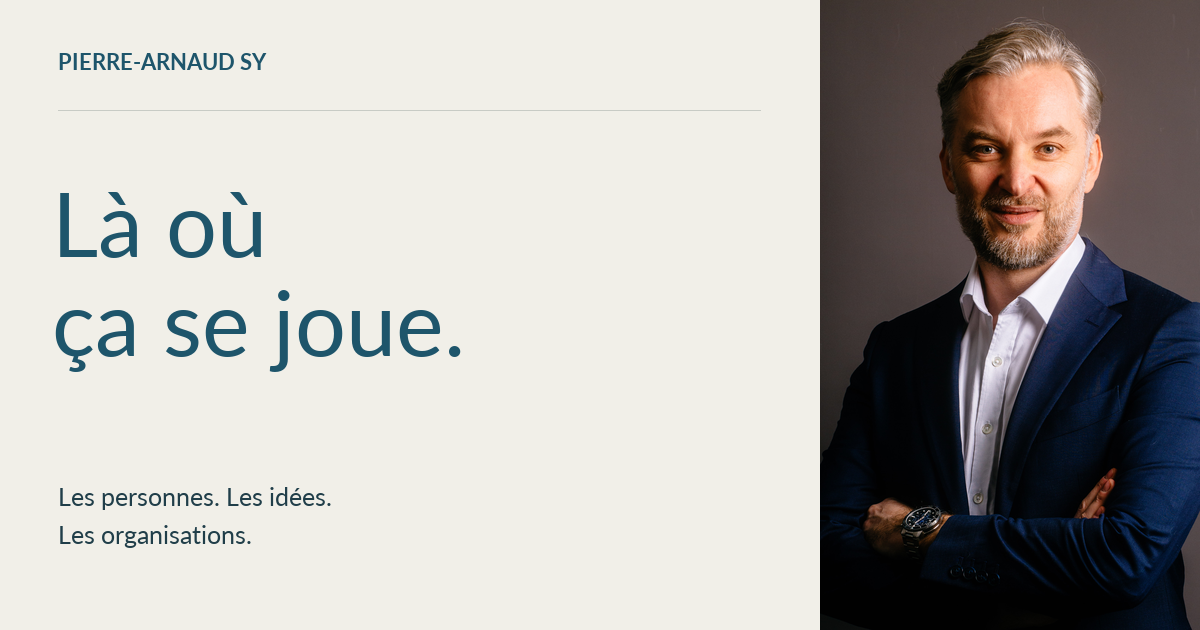
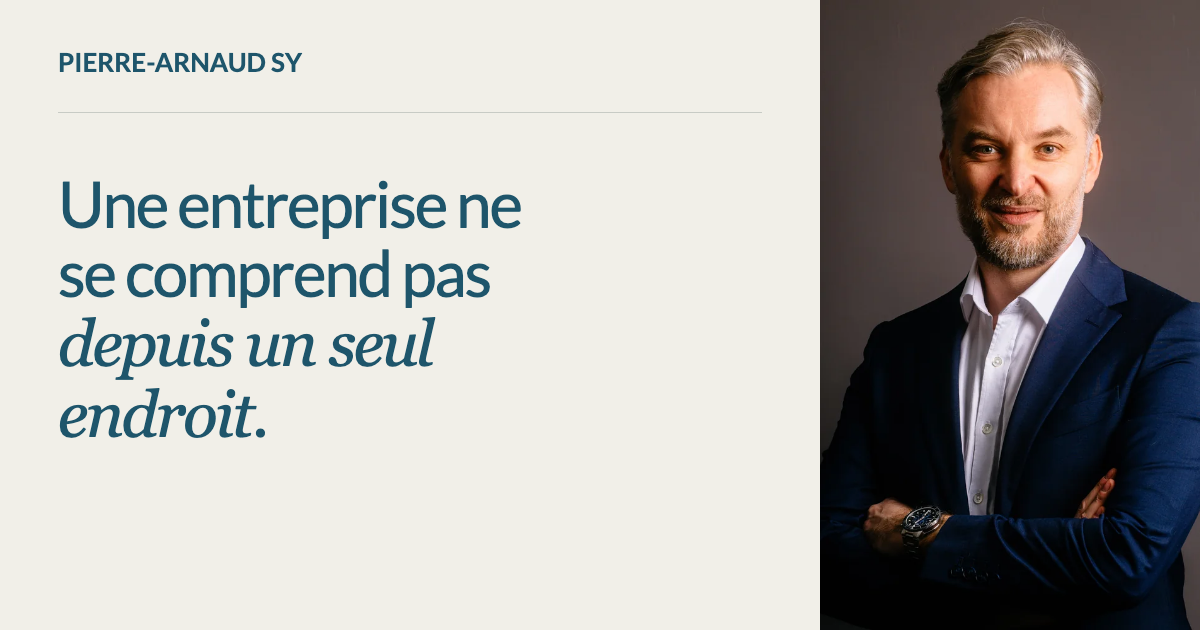
Clarifier la promesse des écrits et les aperçus de partage FR EN

diff --git a/en/index.html b/en/index.html
@@ -17,14 +17,14 @@
     <meta property="og:type" content="profile">
     <meta property="og:locale" content="en_GB">
     <meta property="og:locale:alternate" content="fr_FR">
-    <meta property="og:title" content="Pierre-Arnaud SY | Where things take shape">
+    <meta property="og:title" content="Pierre-Arnaud SY | Career, experience and writing">
     <meta property="og:description" content="From equipment distribution to manufacturing, from sales to the factory floor: the experience and writing of Pierre-Arnaud SY, a B2B commercial and operations executive.">
-    <meta property="og:image" content="https://piarsy.github.io/site-personnel/assets/social-card.png">
+    <meta property="og:image" content="https://piarsy.github.io/site-personnel/assets/social-card-en.png">
     <meta property="og:image:width" content="1200">
     <meta property="og:image:height" content="630">
-    <meta property="og:image:alt" content="Pierre-Arnaud SY. Where things take shape (French-language card)">
+    <meta property="og:image:alt" content="Portrait of Pierre-Arnaud SY. You can’t understand a business from just one side.">
     <meta name="twitter:card" content="summary_large_image">
-    <meta name="twitter:image" content="https://piarsy.github.io/site-personnel/assets/social-card.png">
+    <meta name="twitter:image" content="https://piarsy.github.io/site-personnel/assets/social-card-en.png">
   <link rel="icon" href="../assets/favicon.svg" type="image/svg+xml">
   <link rel="preload" href="../assets/fonts/lato-regular.woff2" as="font" type="font/woff2" crossorigin>
   <link rel="preload" href="../assets/fonts/lato-bold.woff2" as="font" type="font/woff2" crossorigin>
@@ -136,8 +136,8 @@
     <section class="publications section" id="publications" aria-labelledby="publications-title">
       <div class="wrap">
         <div class="editorial-head">
-          <div><p class="eyebrow">03 / Writing</p><h2 id="publications-title">Where things take shape.</h2><p class="lead">What helps people, ideas and organisations move forward.</p></div>
-          <p class="editorial-description">A selection of my LinkedIn writing, published in French: first-hand experiences, business stories and questions that stay with me.</p>
+          <div><p class="eyebrow">03 / Writing</p><h2 id="publications-title">What isn’t obvious at first.</h2><p class="lead">A customer objection, a detail on the shop floor, a team finding its own solutions.</p></div>
+          <p class="editorial-description">Stories that offer a different perspective on work, decisions and organisations.</p>
         </div>
         <div class="publication-list">
     <a class="publication" data-featured href="https://www.linkedin.com/posts/pierrearnaudsy_je-demandais-%C3%A0-une-%C3%A9quipe-sav-comment-elle-activity-7508525810660597760-LSPP" target="_blank" rel="noopener noreferrer">

diff --git a/index.html b/index.html
@@ -17,12 +17,12 @@
     <meta property="og:type" content="profile">
     <meta property="og:locale" content="fr_FR">
     <meta property="og:locale:alternate" content="en_GB">
-    <meta property="og:title" content="Pierre-Arnaud SY | Là où ça se joue">
+    <meta property="og:title" content="Pierre-Arnaud SY | Parcours, expériences et écrits">
     <meta property="og:description" content="Du distributeur au constructeur, du commerce à l’usine : les expériences et les écrits de Pierre-Arnaud SY, dirigeant B2B.">
     <meta property="og:image" content="https://piarsy.github.io/site-personnel/assets/social-card.png">
     <meta property="og:image:width" content="1200">
     <meta property="og:image:height" content="630">
-    <meta property="og:image:alt" content="Pierre-Arnaud SY. Là où ça se joue.">
+    <meta property="og:image:alt" content="Portrait de Pierre-Arnaud SY. Une entreprise ne se comprend pas depuis un seul endroit.">
     <meta name="twitter:card" content="summary_large_image">
     <meta name="twitter:image" content="https://piarsy.github.io/site-personnel/assets/social-card.png">
   <link rel="icon" href="assets/favicon.svg" type="image/svg+xml">
@@ -136,8 +136,8 @@
     <section class="publications section" id="publications" aria-labelledby="publications-title">
       <div class="wrap">
         <div class="editorial-head">
-          <div><p class="eyebrow">03 / Les écrits</p><h2 id="publications-title">Là où ça se joue.</h2><p class="lead">Ce qui fait avancer les personnes, les idées et les organisations.</p></div>
-          <p class="editorial-description">Une sélection de mes écrits sur LinkedIn : des scènes vécues, des histoires d’entreprise et des questions qui restent.</p>
+          <div><p class="eyebrow">03 / Les écrits</p><h2 id="publications-title">Ce qu’on ne voit pas tout de suite.</h2><p class="lead">Une objection client, un détail dans un atelier, une équipe qui trouve ses propres solutions.</p></div>
+          <p class="editorial-description">Des histoires pour regarder autrement le travail, les décisions et les organisations.</p>
         </div>
         <div class="publication-list">
     <a class="publication" data-featured href="https://www.linkedin.com/posts/pierrearnaudsy_je-demandais-%C3%A0-une-%C3%A9quipe-sav-comment-elle-activity-7508525810660597760-LSPP" target="_blank" rel="noopener noreferrer">

diff --git a/en/career.html b/en/career.html
@@ -19,12 +19,12 @@
     <meta property="og:locale:alternate" content="fr_FR">
     <meta property="og:title" content="Pierre-Arnaud SY | Career">
     <meta property="og:description" content="The roles, career history and education of Pierre-Arnaud SY, across manufacturing, distribution and entrepreneurship.">
-    <meta property="og:image" content="https://piarsy.github.io/site-personnel/assets/social-card.png">
+    <meta property="og:image" content="https://piarsy.github.io/site-personnel/assets/social-card-en.png">
     <meta property="og:image:width" content="1200">
     <meta property="og:image:height" content="630">
-    <meta property="og:image:alt" content="Pierre-Arnaud SY. Where things take shape (French-language card)">
+    <meta property="og:image:alt" content="Portrait of Pierre-Arnaud SY. You can’t understand a business from just one side.">
     <meta name="twitter:card" content="summary_large_image">
-    <meta name="twitter:image" content="https://piarsy.github.io/site-personnel/assets/social-card.png">
+    <meta name="twitter:image" content="https://piarsy.github.io/site-personnel/assets/social-card-en.png">
   <link rel="icon" href="../assets/favicon.svg" type="image/svg+xml">
   <link rel="preload" href="../assets/fonts/lato-regular.woff2" as="font" type="font/woff2" crossorigin>
   <link rel="preload" href="../assets/fonts/lato-bold.woff2" as="font" type="font/woff2" crossorigin>

diff --git a/en/legal.html b/en/legal.html
@@ -19,12 +19,12 @@
     <meta property="og:locale:alternate" content="fr_FR">
     <meta property="og:title" content="Legal notice and privacy | Pierre-Arnaud SY">
     <meta property="og:description" content="Legal notice and privacy information for Pierre-Arnaud SY’s personal website.">
-    <meta property="og:image" content="https://piarsy.github.io/site-personnel/assets/social-card.png">
+    <meta property="og:image" content="https://piarsy.github.io/site-personnel/assets/social-card-en.png">
     <meta property="og:image:width" content="1200">
     <meta property="og:image:height" content="630">
-    <meta property="og:image:alt" content="Pierre-Arnaud SY. Where things take shape (French-language card)">
+    <meta property="og:image:alt" content="Portrait of Pierre-Arnaud SY. You can’t understand a business from just one side.">
     <meta name="twitter:card" content="summary_large_image">
-    <meta name="twitter:image" content="https://piarsy.github.io/site-personnel/assets/social-card.png">
+    <meta name="twitter:image" content="https://piarsy.github.io/site-personnel/assets/social-card-en.png">
   <link rel="icon" href="../assets/favicon.svg" type="image/svg+xml">
   <link rel="preload" href="../assets/fonts/lato-regular.woff2" as="font" type="font/woff2" crossorigin>
   <link rel="preload" href="../assets/fonts/lato-bold.woff2" as="font" type="font/woff2" crossorigin>

diff --git a/mentions-legales.html b/mentions-legales.html
@@ -22,7 +22,7 @@
     <meta property="og:image" content="https://piarsy.github.io/site-personnel/assets/social-card.png">
     <meta property="og:image:width" content="1200">
     <meta property="og:image:height" content="630">
-    <meta property="og:image:alt" content="Pierre-Arnaud SY. Là où ça se joue.">
+    <meta property="og:image:alt" content="Portrait de Pierre-Arnaud SY. Une entreprise ne se comprend pas depuis un seul endroit.">
     <meta name="twitter:card" content="summary_large_image">
     <meta name="twitter:image" content="https://piarsy.github.io/site-personnel/assets/social-card.png">
   <link rel="icon" href="assets/favicon.svg" type="image/svg+xml">

diff --git a/parcours.html b/parcours.html
@@ -22,7 +22,7 @@
     <meta property="og:image" content="https://piarsy.github.io/site-personnel/assets/social-card.png">
     <meta property="og:image:width" content="1200">
     <meta property="og:image:height" content="630">
-    <meta property="og:image:alt" content="Pierre-Arnaud SY. Là où ça se joue.">
+    <meta property="og:image:alt" content="Portrait de Pierre-Arnaud SY. Une entreprise ne se comprend pas depuis un seul endroit.">
     <meta name="twitter:card" content="summary_large_image">
     <meta name="twitter:image" content="https://piarsy.github.io/site-personnel/assets/social-card.png">
   <link rel="icon" href="assets/favicon.svg" type="image/svg+xml">
